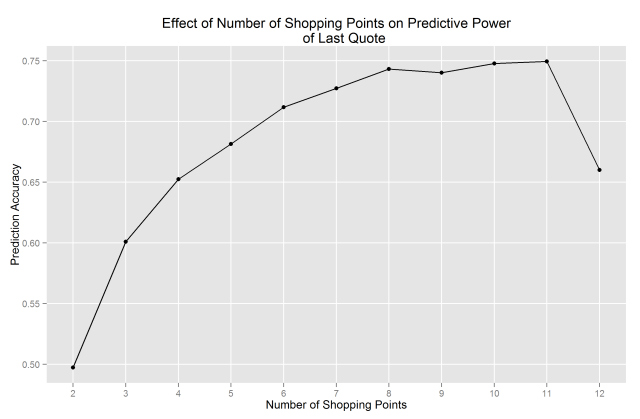
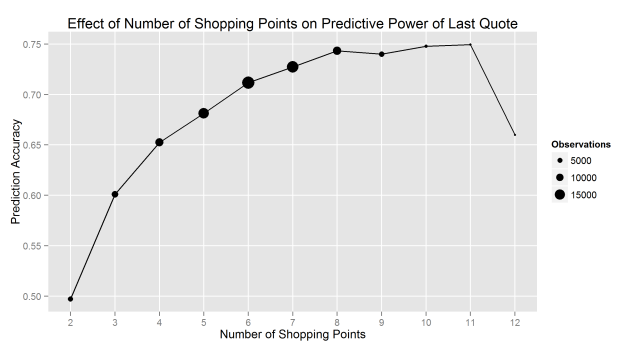
add viz 5 and revise viz 2

diff --git a/allstate-paper.md b/allstate-paper.md
@@ -38,7 +38,7 @@ Here are some of my key findings from the exploratory process, and what I conclu
 	* I concluded that the number of shopping points was probably deliberately truncated in the test set in order to limit the information available to competitors and make the problem more challenging. (Kaggle later [confirmed](http://www.kaggle.com/c/allstate-purchase-prediction-challenge/forums/t/7240/is-the-test-data-truncation-a-trim-or-thinning-out) that the test set was truncated, but [declined](http://www.kaggle.com/c/allstate-purchase-prediction-challenge/forums/t/7119/recreating-a-truncated-test) to provide details on the truncation algorithm.) I also concluded that it might be useful to similarly truncate the training set (for cross-validation) to provide more accurate estimates of test error during the modeling process.
 
 4. **Predictive power of final quote before purchase:**
-	* As seen in the plot below, the final quote a customer requests before the "purchase point" is hugely predictive (in the training set) of which options they will actually purchase. The final quote correctly predicted the purchased options 50% to 75% of the time, with that percentage steadily increasing as customers review more quotes.<br />![Effect of Number of Shopping Points on Predictive Power of Last Quote](allstate-viz-2.png)
+	* As seen in the plot below, the final quote a customer requests before the "purchase point" is hugely predictive (in the training set) of which options they will actually purchase. The final quote correctly predicted the purchased options 50% to 75% of the time, with that percentage steadily increasing as customers review more quotes. (Note that the right side of the plot is unstable due to the small number of observations with 10 or more shopping points.)<br />![Effect of Number of Shopping Points on Predictive Power of Last Quote](allstate-viz-2.png)
 	* I concluded that using the final quote in the test set as a predictor of the purchase would be an excellent baseline strategy, and indeed this method was used as the "benchmark" on the Kaggle leaderboard (producing a score of 0.53793 on the public leaderboard).
 	* I also concluded that this is precisely why the number of shopping points was truncated in the test set; otherwise, the baseline strategy would likely have worked about 75% of the time on the test set.
 
@@ -76,7 +76,7 @@ The [dataset provided by Kaggle](http://www.kaggle.com/c/allstate-purchase-predi
 	* Instead of using "time" as a feature, I created an "hour" categorical feature by truncating the minutes from the exact time. I also created a "timeofday" categorical feature using the data from exploration #5 above: day (6am-3pm), evening (4pm-6pm), and night (7pm-6am).
 	* Instead of using "day" as a feature, I created a "weekend" categorical feature (yes=weekend, no=weekday).
 	* There were a very small number of cars with a "car_age" of 30 to 75 years. Since I was using car_age as a continuous feature, I decided to convert all car ages over 30 to be exactly 30, under the theory that the purchase behavior of those users might be similar.
-	* Because I discovered clusters of states in which customers seemed to exhibit similar behaviors, I manually grouped states using a "stategroup" categorical feature. (This also allowed me to use stategroup as a feature in a random forest model, because the `randomForest` package in R is limited to categorical variables with 32 levels.)
+	* During the model building process (discussed in detail below), I noticed that the customer's state appeared to affect their likelihood of changing options between the last quote and the purchase point. States in which that likelihood was very low (North Dakota, South Dakota, Alabama, and Wyoming) also happened to be the states that I think of as the least technologically advanced. If outside data was allowed, I would have tried adding a new feature to reflect the technological level of each state. But since outside data is not allowed, I created a "stategroup" categorical feature by clustering states into 5 groups using their "likelihood of change" coefficient from one of my models. The group assignments are shown below; note that 15 states have not been assigned a group since they are not present in the dataset.<br />![Clustering of States Based on Customer Likelihood of Changing from Last Quote](allstate-viz-5.png)
 
 3. **"Conceptual" features:** I created a few features to represent "concepts" by combining different features, under the theory that the concepts might have better predictive power than the individual features (in a way that might not be captured by an interaction term).
 	* I created a "family" categorical feature for any customer that was listed as married, had a group size larger than 2, and the age of the youngest covered individual (presumably their child) was less than 25.
